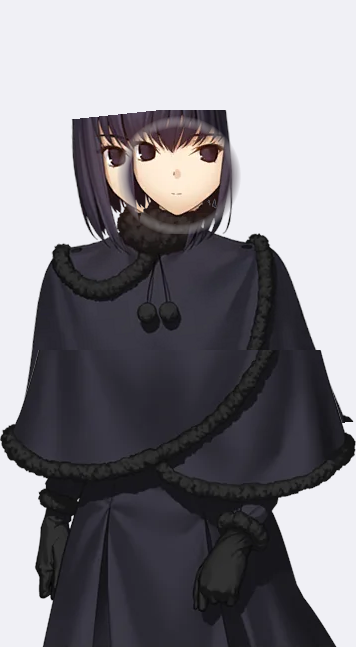
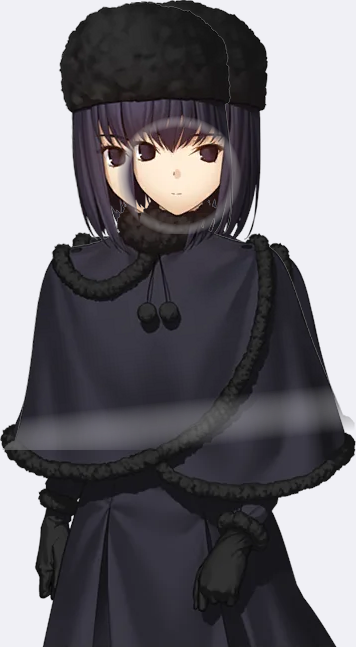
桌宠改为完整底图+羽化头层: 头层从头顶开始完整保留, 底部羽化与身体融合

diff --git a/src/renderer/pet.js b/src/renderer/pet.js
@@ -27,7 +27,7 @@
     expression: { x: 82, y: 103, w: 89, h: 79 },
     tile: { w: 134, h: 118, cx: 67.5, cy: 59.5 },
     sheet: { w: 356, h: 647 }, // 半身照原图尺寸, 用于显示缩放换算
-    headOffsetY: 110, // 头层从半身照 y110 开始(头+脖子)
+    headOffsetY: 0, // 头层从半身照 y0 开始(完整头顶), 底部羽化融合
     turn: { headRot: 7, headX: 3, headY: 1.2, bodyRot: 1.2, bodyX: 1.5 }, // 头层旋转/位移 + 身体轻微跟随
   };
 
@@ -303,15 +303,9 @@
     // 纸娃娃三层: 身体(肩以下) / 脖子垫片(固定遮缝) / 头层(可旋转, 头发跟着头走)
     const bodypart = document.createElement('img');
     bodypart.className = 'gaia-pet-bodypart';
-    bodypart.src = IMG + 'body.png';
+    bodypart.src = IMG + 'full.png';
     bodypart.draggable = false;
     bodypart.alt = '';
-
-    const neck = document.createElement('img');
-    neck.className = 'gaia-pet-neck';
-    neck.src = IMG + 'neck.png';
-    neck.draggable = false;
-    neck.alt = '';
 
     const head = document.createElement('div');
     head.className = 'gaia-pet-head';
@@ -337,10 +331,10 @@
     zzz.hidden = true;
 
     head.append(headimg, face, lid);
-    body.append(bodypart, neck, head);
+    body.append(bodypart, head);
     root.append(bubble, body, zzz);
     document.body.appendChild(root);
-    ui = { root, bubble, body, bodypart, neck, head, headimg, face, lid, zzz };
+    ui = { root, bubble, body, bodypart, head, headimg, face, lid, zzz };
   }
 
   async function init() {

diff --git a/src/renderer/styles.css b/src/renderer/styles.css
@@ -410,31 +410,24 @@ body.eye {
 
 
 /* 纸娃娃: 头层旋转 / 身体 / 脖子垫片 */
+/* 完整底图(不切): 身体跟随鼠标轻微扭动 */
 .gaia-pet-bodypart {
   position: absolute;
   left: 0;
-  bottom: 0;
+  top: 0;
   width: 100%;
   display: block;
   pointer-events: none;
   transform-origin: 50% 100%;
   will-change: transform;
 }
-.gaia-pet-neck {
-  position: absolute;
-  left: 0;
-  top: 54.1%; /* 350/647 */
-  width: 100%;
-  display: block;
-  pointer-events: none;
-  z-index: 3;
-}
+/* 羽化头层: 以脖子为轴转头, 底部羽化与身体融合 */
 .gaia-pet-head {
   position: absolute;
   left: 0;
   top: 0;
   width: 100%;
-  transform-origin: 50% 100%;
+  transform-origin: 50% 98%;
   will-change: transform;
   z-index: 2;
 }

diff --git a/scripts/make-pet-head-parts.py b/scripts/make-pet-head-parts.py
@@ -1,13 +1,13 @@
 #!/usr/bin/env python3
-"""把半身照切成 头/身体/脖子垫片 三层, 用于"转头+身体跟随"纸娃娃结构。
-
-分界: 头层 y 110..440(含头+脖子), 身体层 y 430..647, 脖子垫片 y 350..470。
-转轴: 头层底部中心 (178, 440) 对应半身照坐标。
+"""重新生成桌宠纸娃娃素材(羽化融合版, 不硬切):
+- full.png   : 完整半身照(底层, 不动)
+- head.png   : 脖子以上透明头层(顶层, 旋转), 底部 40px 羽化融合
+头层从 y0 开始, 保留完整头顶; 转轴位于脖子底部(y~440)。
 """
 
 import os
 import numpy as np
-from PIL import Image
+from PIL import Image, ImageFilter
 
 SRC = r"D:\Codex_project\Gaia_Reading\src\renderer\images\pet\cells\半身照.png"
 OUT = r"D:\Codex_project\Gaia_Reading\src\renderer\images\pet\parts"
@@ -16,25 +16,28 @@ im = Image.open(SRC).convert('RGBA')
 W, H = im.size
 os.makedirs(OUT, exist_ok=True)
 
-head = im.crop((0, 110, W, 440))
-body = im.crop((0, 430, W, H))
-neck = im.crop((0, 350, W, 470))
-head.save(os.path.join(OUT, 'head.png'))
-body.save(os.path.join(OUT, 'body.png'))
-neck.save(os.path.join(OUT, 'neck.png'))
-print('head', head.size, 'body', body.size, 'neck', neck.size)
+# 1) 完整底图
+im.save(os.path.join(OUT, 'full.png'))
 
-# 合成预览: 头层旋转 -6 度 + 身体 + 脖子垫片 + 脸贴片
+# 2) 头层: y 0..450, 底部羽化(400..450 alpha 渐变到 0)
+head = im.crop((0, 0, W, 450)).convert('RGBA')
+a = np.array(head)
+h = a.shape[0]
+fade0, fade1 = 400, 449
+for y in range(fade0, fade1 + 1):
+    t = (y - fade0) / (fade1 - fade0)
+    a[y, :, 3] = (a[y, :, 3] * (1 - t)).astype(np.uint8)
+head = Image.fromarray(a)
+head.save(os.path.join(OUT, 'head.png'))
+print('full saved', im.size)
+print('head saved', head.size)
+
+# 3) 合成预览: 完整底 + 头层旋转 6 度
 canvas = Image.new('RGBA', (W, H), (240, 240, 245, 255))
-canvas.paste(body, (0, 430), body)
-head_rot = head.rotate(6, resample=Image.BICUBIC, center=(178, 330), expand=False)
-canvas.paste(head_rot, (0, 110), head_rot)
-canvas.paste(neck, (0, 350), neck)
-# 脸贴片(日常表情)按 FACE 定位到 head 内
+canvas.paste(im, (0, 0), im)
+rot = head.rotate(6, resample=Image.BICUBIC, center=(178, 440), expand=False)
+canvas.paste(rot, (0, 0), rot)
 face = Image.open(r"D:\Codex_project\Gaia_Reading\src\renderer\images\pet\faces\日常表情.png").convert('RGBA')
-hbCx, hbCy = 178.5, 176.0
-fx = round(hbCx - 67.5)
-fy = round(hbCy - 59.5)
-canvas.paste(face, (fx, fy), face)
+canvas.paste(face, (111, 116), face)
 canvas.save(r"D:\Codex_project\Gaia_Reading\src\renderer\images\pet\head-turn-sim.png")
 print('preview saved')
